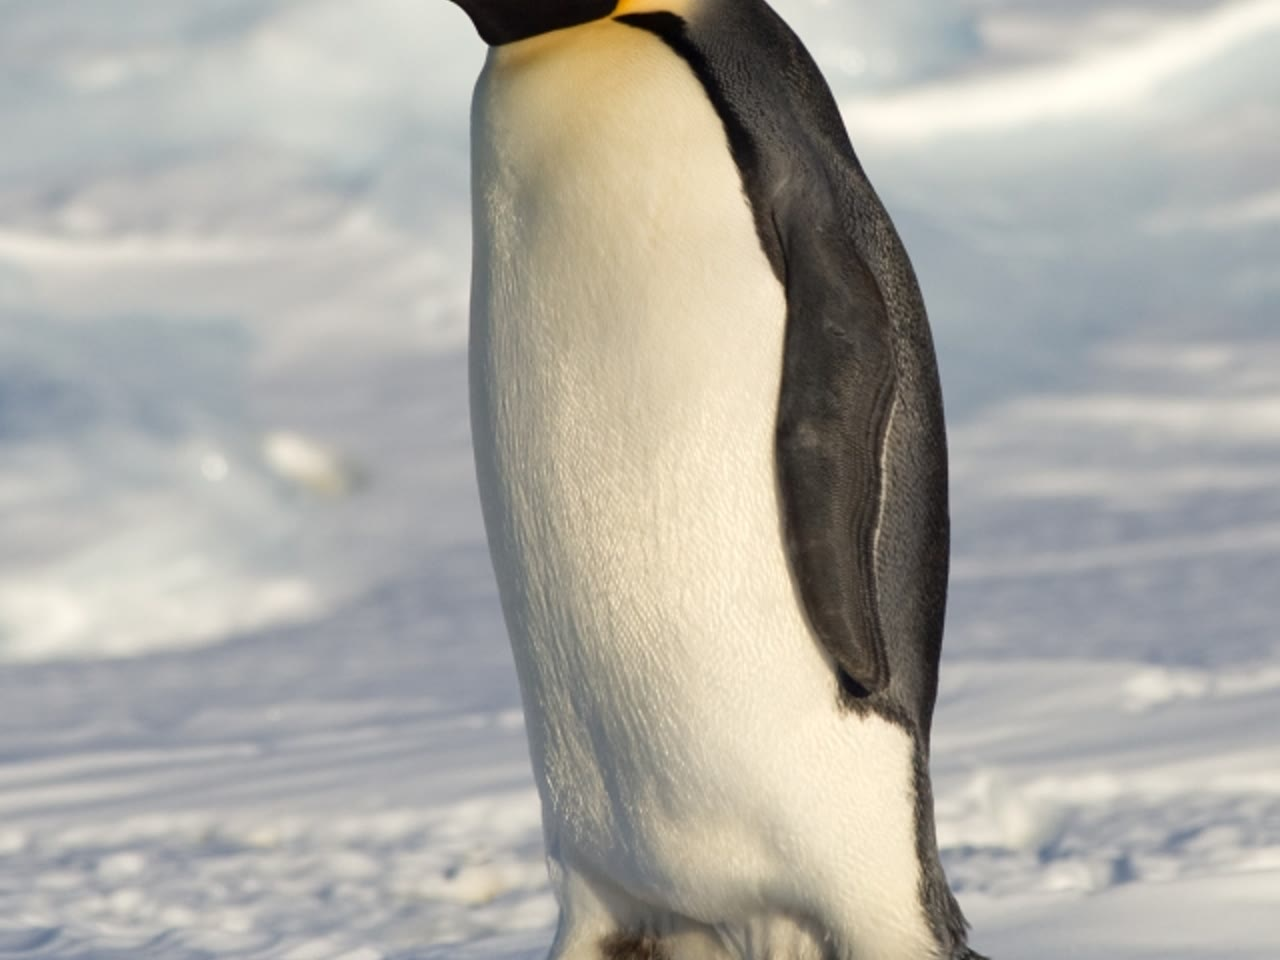
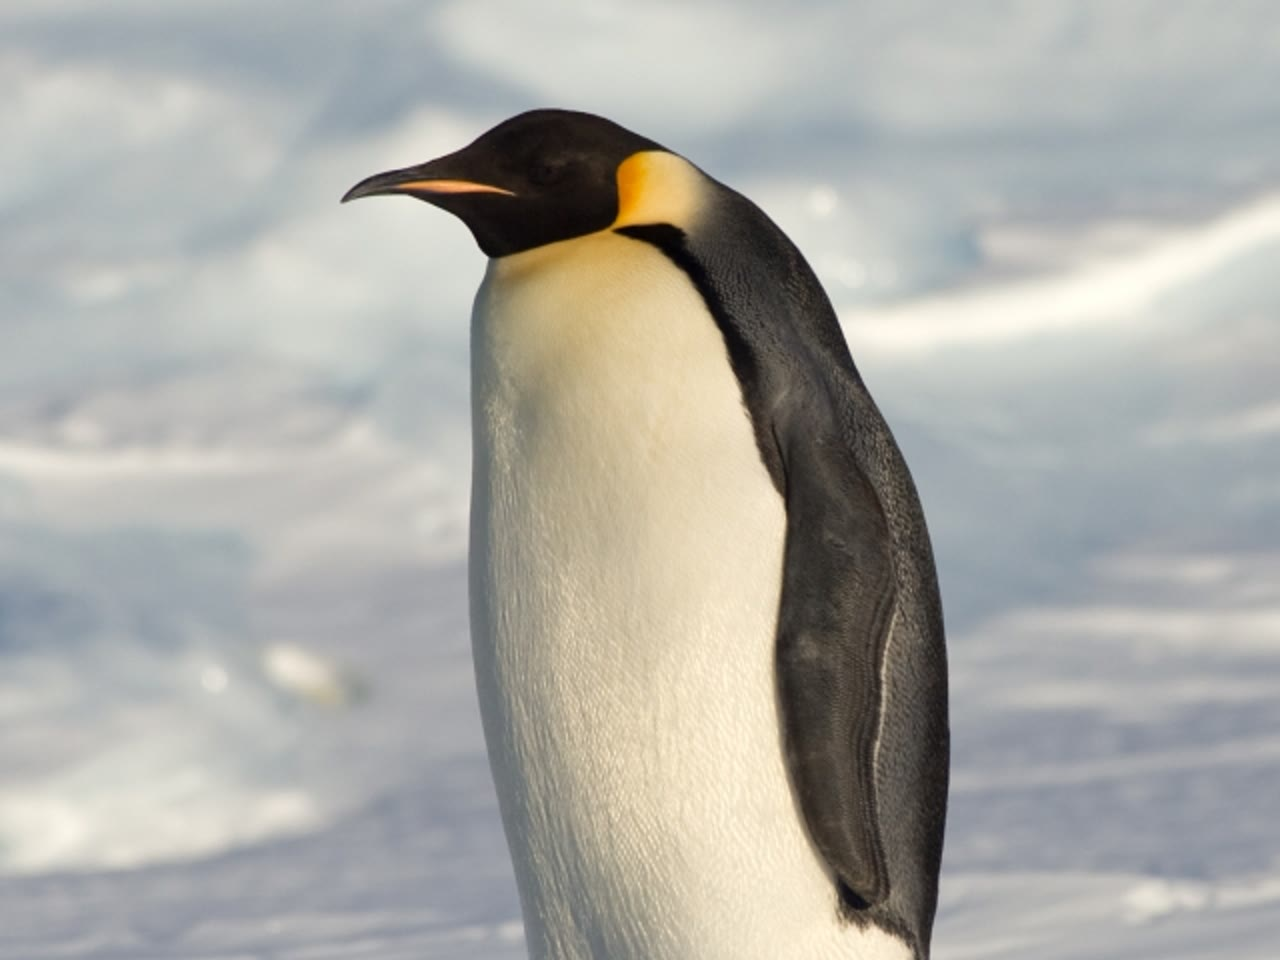
fix(Hello Penguins): re-crop story photos to show penguin heads
Page 2 (emperor on ice) and page 12 (plain Adélie) used science
photos center-cropped to 4:3, cutting off heads. Re-download from
Wikimedia with top-center crop and regenerate story/02.png and 12.png.
Update ffmpeg crop defaults in penguin image scripts.

diff --git a/Primary/scripts/sync_hello_penguins_images.py b/Primary/scripts/sync_hello_penguins_images.py
@@ -25,12 +25,15 @@ WORD_FILES = [
 ]
 
 
-def ff(src, dest, w=1280, h=960):
+def ff(src, dest, w=1280, h=960, crop_y=0):
+    """Scale to cover WxH, crop from top-center by default (keeps penguin heads)."""
     os.makedirs(os.path.dirname(dest), exist_ok=True)
+    y = max(0, int(crop_y))
+    vf = f"scale={w}:{h}:force_original_aspect_ratio=increase,crop={w}:{h}:(iw-{w})/2:{y}"
     subprocess.check_call(
         [
             "ffmpeg", "-y", "-i", src,
-            "-vf", f"scale={w}:{h}:force_original_aspect_ratio=increase,crop={w}:{h}",
+            "-vf", vf,
             dest,
         ],
         stdout=subprocess.DEVNULL,

diff --git a/Primary/scripts/download_penguin_photos.py b/Primary/scripts/download_penguin_photos.py
@@ -106,7 +106,8 @@ def download(url: str, dest: str):
             "-i",
             tmp,
             "-vf",
-            "scale=1280:960:force_original_aspect_ratio=increase,crop=1280:960",
+            # Top-center crop keeps penguin heads visible in 4:3 frames.
+            "scale=1280:960:force_original_aspect_ratio=increase,crop=1280:960:(iw-1280)/2:0",
             "-q:v",
             "3",
             dest,
